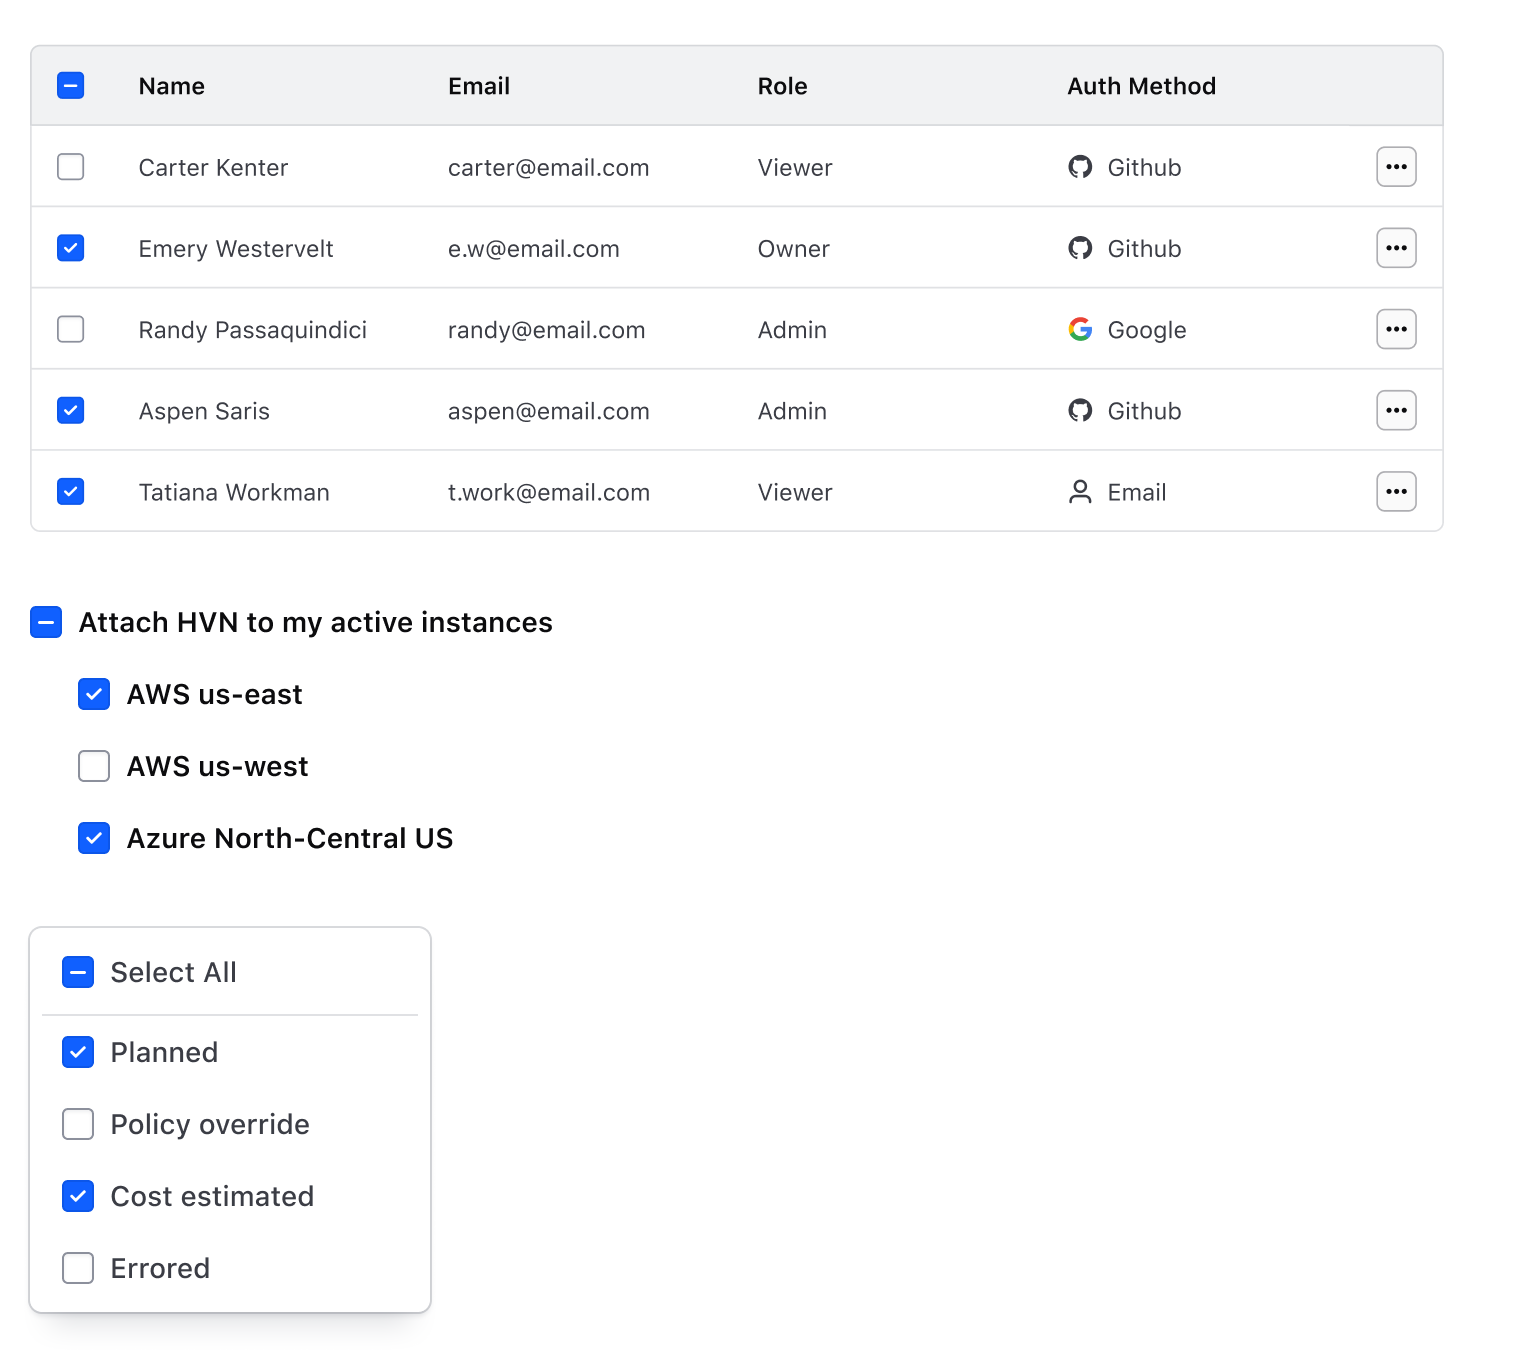
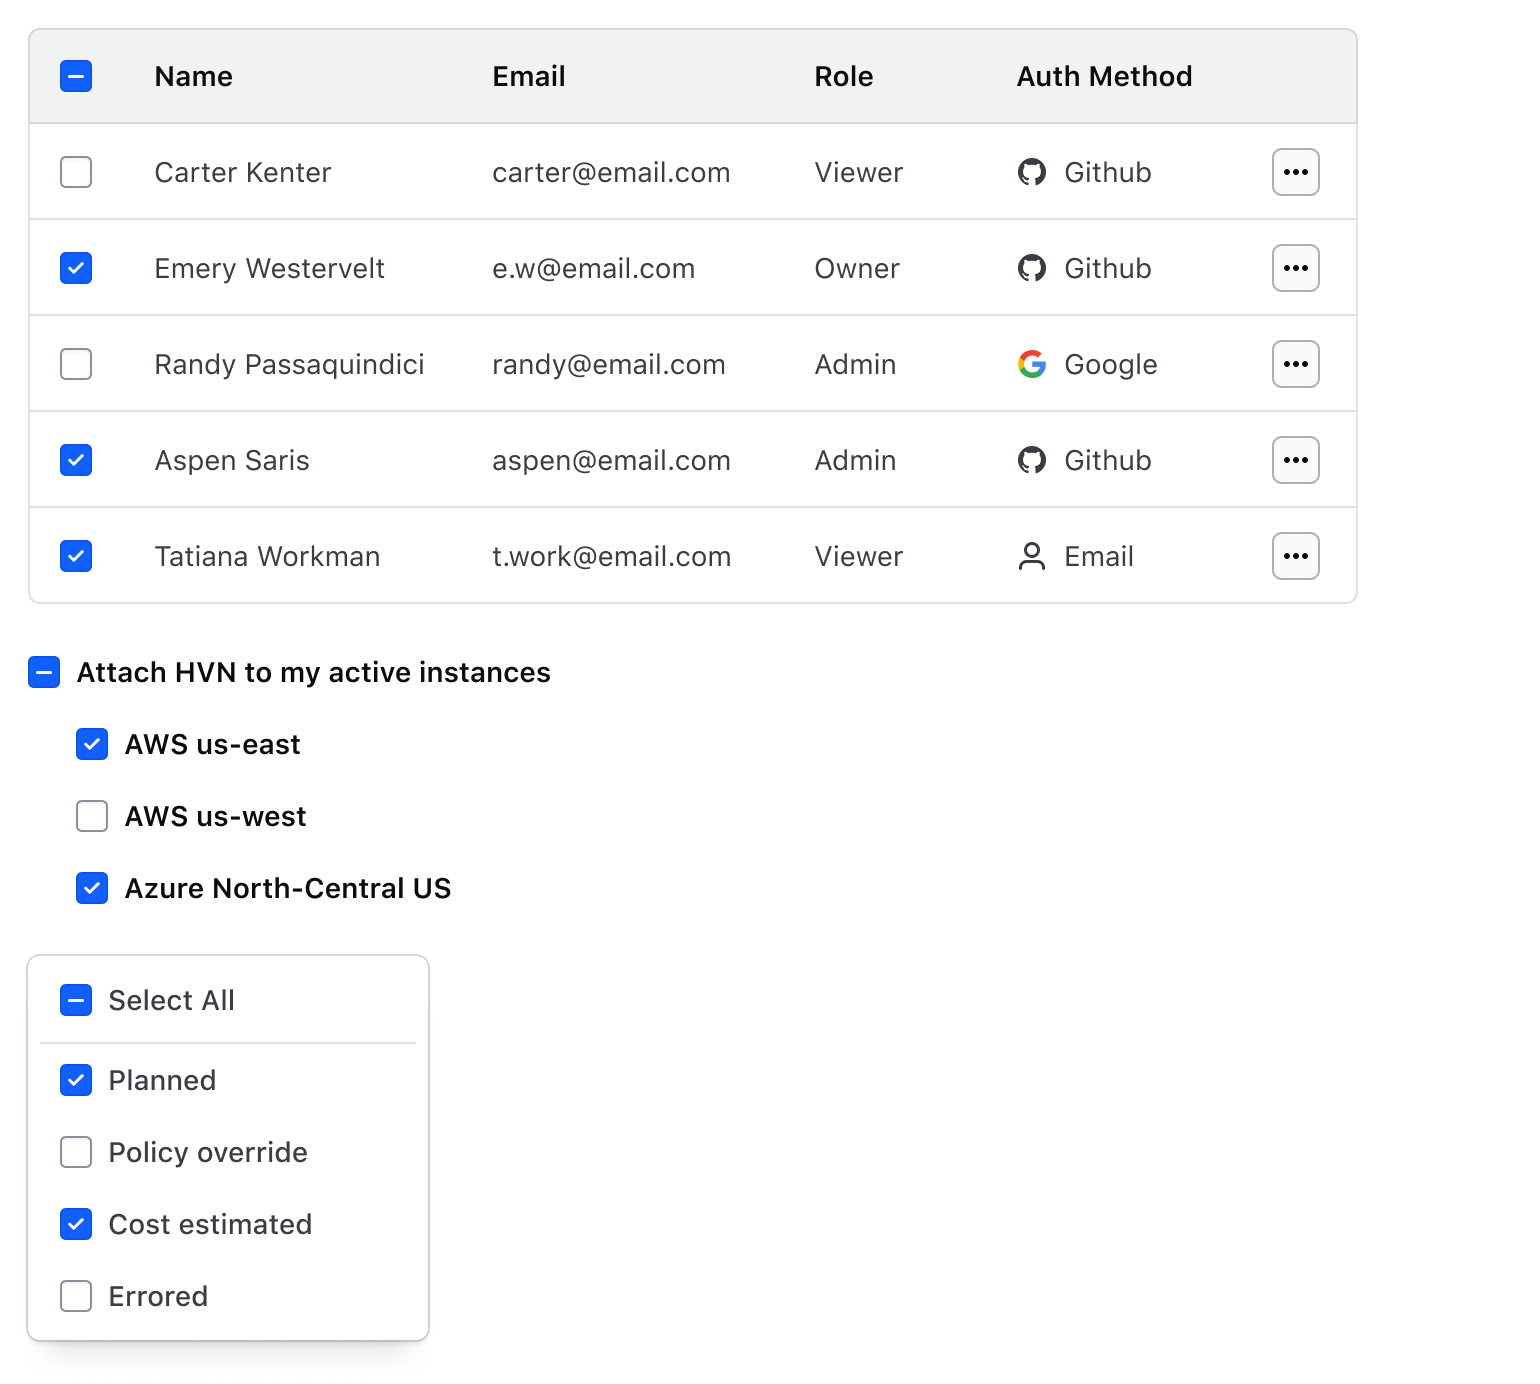
Fixing a couple of sceenshots
- Making the table the actual size of the component
- Updating the file name to use all lowercase

diff --git a/website/docs/components/form/checkbox/partials/guidelines/guidelines.md b/website/docs/components/form/checkbox/partials/guidelines/guidelines.md
@@ -47,12 +47,12 @@ Indeterminate states indicate a "partially checked" condition in nested structur
 
 !!! Do
 
-![Example of proper usage of the indeterminate state in the checkbox] (/assets/components/form/checkbox/checkbox-Indeterminate-do.png)
+![Example of proper usage of the indeterminate state in the checkbox] (/assets/components/form/checkbox/checkbox-indeterminate-do.png)
 !!!
 
 !!! Dont
 
-![Example of misuse of the indeterminate state in the checkbox] (/assets/components/form/checkbox/checkbox-Indeterminate-dont.png)
+![Example of misuse of the indeterminate state in the checkbox] (/assets/components/form/checkbox/checkbox-indeterminate-dont.png)
 !!!
 
 ## Required and optional
